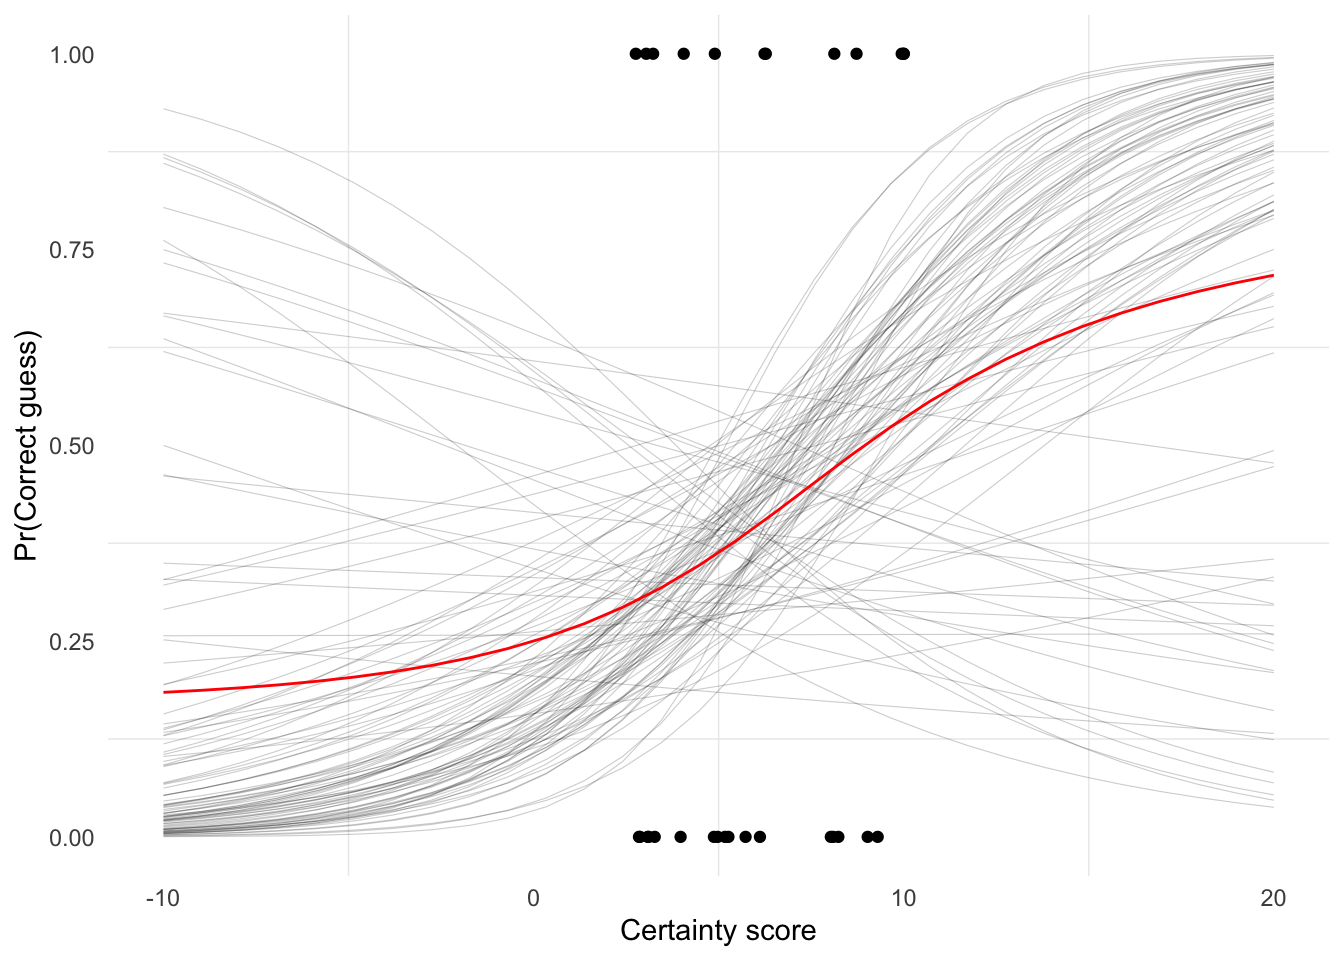
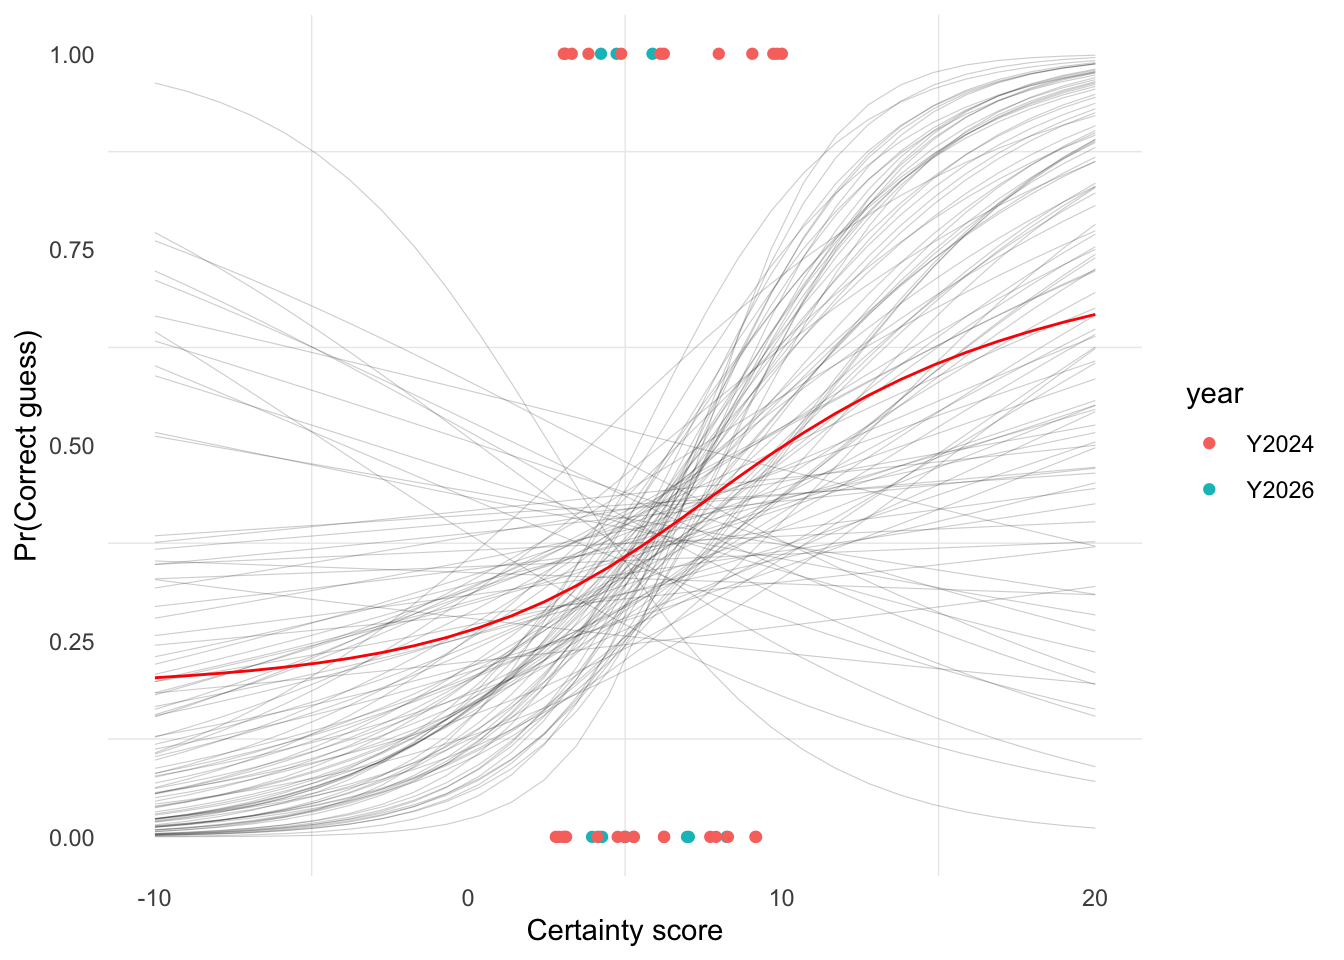
Built site for gh-pages

diff --git a/bayes-course/07-lecture/two-truths/two-truths.html b/bayes-course/07-lecture/two-truths/two-truths.html
@@ -226,7 +226,7 @@ window.Quarto = {
 </section>
 <section id="data-used" class="level2">
 <h2 class="anchored" data-anchor-id="data-used">Data Used</h2>
-<p>This analysis uses the Google Sheet tabs selected by <code>data_mode = "previous"</code>. The current-year tab is <code>Y2026</code>; the previous available tab in the workbook is <code>Y2024</code>. The response variable is whether the group guessed the lie correctly, coded as 1 for a correct guess and 0 for an incorrect guess. The predictor is the group’s certainty score on a 0 to 10 scale.</p>
+<p>This analysis uses the Google Sheet tabs selected by <code>data_mode = "both"</code>. The current-year tab is <code>Y2026</code>; the previous available tab in the workbook is <code>Y2024</code>. The response variable is whether the group guessed the lie correctly, coded as 1 for a correct guess and 0 for an incorrect guess. The predictor is the group’s certainty score on a 0 to 10 scale.</p>
 <div class="cell">
 <div class="cell-output-display">
 <table class="caption-top table table-sm table-striped small">
@@ -241,63 +241,63 @@ window.Quarto = {
 </thead>
 <tbody>
 <tr class="odd">
-<td style="text-align: left;">Y2024</td>
-<td style="text-align: left;">Team Cool</td>
-<td style="text-align: right;">5</td>
-<td style="text-align: right;">0</td>
-</tr>
-<tr class="even">
-<td style="text-align: left;">Y2024</td>
-<td style="text-align: left;">Team cool</td>
-<td style="text-align: right;">5</td>
-<td style="text-align: right;">0</td>
-</tr>
-<tr class="odd">
-<td style="text-align: left;">Y2024</td>
-<td style="text-align: left;">Chris-Ruby-Ruibing</td>
-<td style="text-align: right;">10</td>
-<td style="text-align: right;">1</td>
-</tr>
-<tr class="even">
-<td style="text-align: left;">Y2024</td>
-<td style="text-align: left;">kettle pops</td>
-<td style="text-align: right;">3</td>
-<td style="text-align: right;">1</td>
-</tr>
-<tr class="odd">
-<td style="text-align: left;">Y2024</td>
-<td style="text-align: left;">kettle pops</td>
-<td style="text-align: right;">5</td>
-<td style="text-align: right;">0</td>
-</tr>
-<tr class="even">
-<td style="text-align: left;">Y2024</td>
-<td style="text-align: left;">Chris-Ruby-Ruibing</td>
+<td style="text-align: left;">Y2026</td>
+<td style="text-align: left;">Bayesian In-Friends</td>
 <td style="text-align: right;">6</td>
-<td style="text-align: right;">0</td>
-</tr>
-<tr class="odd">
-<td style="text-align: left;">Y2024</td>
-<td style="text-align: left;">Bayesian</td>
-<td style="text-align: right;">10</td>
 <td style="text-align: right;">1</td>
 </tr>
 <tr class="even">
-<td style="text-align: left;">Y2024</td>
-<td style="text-align: left;">Chris-Ruby-Ruibing</td>
-<td style="text-align: right;">10</td>
+<td style="text-align: left;">Y2026</td>
+<td style="text-align: left;">Bayesian in-friends</td>
+<td style="text-align: right;">4</td>
+<td style="text-align: right;">0</td>
+</tr>
+<tr class="odd">
+<td style="text-align: left;">Y2026</td>
+<td style="text-align: left;">City girls</td>
+<td style="text-align: right;">4</td>
+<td style="text-align: right;">0</td>
+</tr>
+<tr class="even">
+<td style="text-align: left;">Y2026</td>
+<td style="text-align: left;">The jersey boys</td>
+<td style="text-align: right;">4</td>
 <td style="text-align: right;">1</td>
 </tr>
 <tr class="odd">
-<td style="text-align: left;">Y2024</td>
-<td style="text-align: left;">Bayesian</td>
+<td style="text-align: left;">Y2026</td>
+<td style="text-align: left;">the jersey boys</td>
+<td style="text-align: right;">4</td>
+<td style="text-align: right;">0</td>
+</tr>
+<tr class="even">
+<td style="text-align: left;">Y2026</td>
+<td style="text-align: left;">Bayesian in-friends</td>
+<td style="text-align: right;">5</td>
+<td style="text-align: right;">1</td>
+</tr>
+<tr class="odd">
+<td style="text-align: left;">Y2026</td>
+<td style="text-align: left;">City girls</td>
+<td style="text-align: right;">5</td>
+<td style="text-align: right;">0</td>
+</tr>
+<tr class="even">
+<td style="text-align: left;">Y2026</td>
+<td style="text-align: left;">the jersey boys</td>
 <td style="text-align: right;">8</td>
 <td style="text-align: right;">0</td>
 </tr>
+<tr class="odd">
+<td style="text-align: left;">Y2026</td>
+<td style="text-align: left;">City girls</td>
+<td style="text-align: right;">7</td>
+<td style="text-align: right;">0</td>
+</tr>
 <tr class="even">
-<td style="text-align: left;">Y2024</td>
-<td style="text-align: left;">cvv</td>
-<td style="text-align: right;">5</td>
+<td style="text-align: left;">Y2026</td>
+<td style="text-align: left;">city girls</td>
+<td style="text-align: right;">7</td>
 <td style="text-align: right;">0</td>
 </tr>
 </tbody>
@@ -323,6 +323,12 @@ window.Quarto = {
 <td style="text-align: right;">29</td>
 <td style="text-align: right;">5.86</td>
 <td style="text-align: right;">0.41</td>
+</tr>
+<tr class="even">
+<td style="text-align: left;">Y2026</td>
+<td style="text-align: right;">10</td>
+<td style="text-align: right;">5.40</td>
+<td style="text-align: right;">0.30</td>
 </tr>
 </tbody>
 </table>
@@ -381,12 +387,12 @@ p_i &amp;= \textrm{logit}^{-1}(\alpha + \beta x_i).
 <pre><code>stan_glm
  family:       binomial [logit]
  formula:      correct ~ score
- observations: 29
+ observations: 39
  predictors:   2
 ------
             Median MAD_SD
-(Intercept) -1.36   1.00 
-score        0.15   0.15 
+(Intercept) -1.20   0.82 
+score        0.12   0.14 
 
 ------
 * For help interpreting the printed output see ?print.stanreg
@@ -407,7 +413,7 @@ score        0.15   0.15
 </div>
 </div>
 <p>The thin gray curves are 100 draws from the posterior distribution, so they show uncertainty about the fitted relationship. The red line is the posterior mean relationship. When the gray lines are widely spread apart, the data leave more uncertainty about the probability of a correct guess at that certainty score.</p>
-<p>Using the posterior mean coefficients, the estimated probability of a correct guess is about 0.2 at certainty score 0 and about 0.54 at certainty score 10. This comparison summarizes the fitted change across the observed certainty scale.</p>
+<p>Using the posterior mean coefficients, the estimated probability of a correct guess is about 0.23 at certainty score 0 and about 0.5 at certainty score 10. This comparison summarizes the fitted change across the observed certainty scale.</p>
 <p>We can also compute posterior predictive summaries for specific certainty scores. Here the values are expected probabilities of a correct guess for someone with certainty scores 0, 5, and 10.</p>
 <div class="cell">
 <div class="cell-output-display">
@@ -424,21 +430,21 @@ score        0.15   0.15
 <tbody>
 <tr class="odd">
 <td style="text-align: right;">0</td>
-<td style="text-align: right;">0.04</td>
-<td style="text-align: right;">0.20</td>
-<td style="text-align: right;">0.59</td>
+<td style="text-align: right;">0.06</td>
+<td style="text-align: right;">0.23</td>
+<td style="text-align: right;">0.57</td>
 </tr>
 <tr class="even">
 <td style="text-align: right;">5</td>
 <td style="text-align: right;">0.23</td>
-<td style="text-align: right;">0.36</td>
-<td style="text-align: right;">0.52</td>
+<td style="text-align: right;">0.35</td>
+<td style="text-align: right;">0.50</td>
 </tr>
 <tr class="odd">
 <td style="text-align: right;">10</td>
-<td style="text-align: right;">0.26</td>
-<td style="text-align: right;">0.54</td>
-<td style="text-align: right;">0.80</td>
+<td style="text-align: right;">0.24</td>
+<td style="text-align: right;">0.49</td>
+<td style="text-align: right;">0.76</td>
 </tr>
 </tbody>
 </table>

diff --git a/bayes-course/07-lecture/07-lecture.html b/bayes-course/07-lecture/07-lecture.html
@@ -2051,8 +2051,8 @@ b_{j,2}
 <span id="cb50-28"><a></a></span>
 <span id="cb50-29"><a></a>  <span class="cf">for</span> (i <span class="cf">in</span> <span class="dv">1</span>:N) {</span>
 <span id="cb50-30"><a></a>    y[i] ~ normal(</span>
-<span id="cb50-31"><a></a>      alpha + b_subject[subject[i]][<span class="dv">1</span>] +</span>
-<span id="cb50-32"><a></a>        (beta + b_subject[subject[i]][<span class="dv">2</span>]) * days[i],</span>
+<span id="cb50-31"><a></a>      alpha + b_subject[subject[i], <span class="dv">1</span>] +</span>
+<span id="cb50-32"><a></a>        (beta + b_subject[subject[i], <span class="dv">2</span>]) * days[i],</span>
 <span id="cb50-33"><a></a>      sigma_y</span>
 <span id="cb50-34"><a></a>    );</span>
 <span id="cb50-35"><a></a>  }</span>
@@ -2067,8 +2067,8 @@ b_{j,2}
 <span id="cb51-4"><a></a>  <span class="dt">vector</span>[N] log_lik;</span>
 <span id="cb51-5"><a></a>  <span class="cf">for</span> (i <span class="cf">in</span> <span class="dv">1</span>:N)</span>
 <span id="cb51-6"><a></a>    log_lik[i] = normal_lpdf(y[i] |</span>
-<span id="cb51-7"><a></a>      alpha + b_subject[subject[i]][<span class="dv">1</span>] +</span>
-<span id="cb51-8"><a></a>        (beta + b_subject[subject[i]][<span class="dv">2</span>]) * days[i],</span>
+<span id="cb51-7"><a></a>      alpha + b_subject[subject[i], <span class="dv">1</span>] +</span>
+<span id="cb51-8"><a></a>        (beta + b_subject[subject[i], <span class="dv">2</span>]) * days[i],</span>
 <span id="cb51-9"><a></a>      sigma_y);</span>
 <span id="cb51-10"><a></a>}</span></code></pre></div><button title="Copy to Clipboard" class="code-copy-button"><i class="bi"></i></button></div>
 </div>
